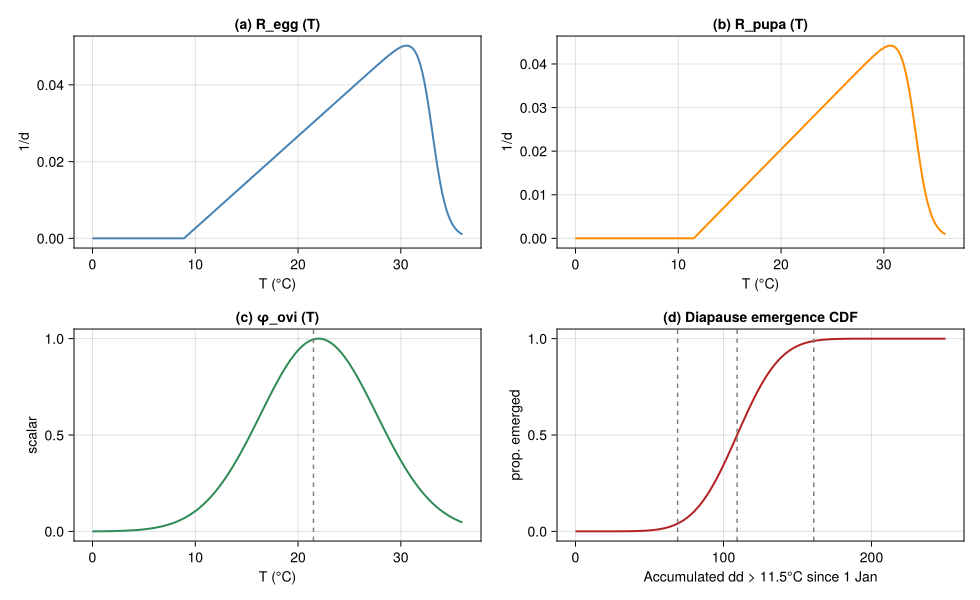
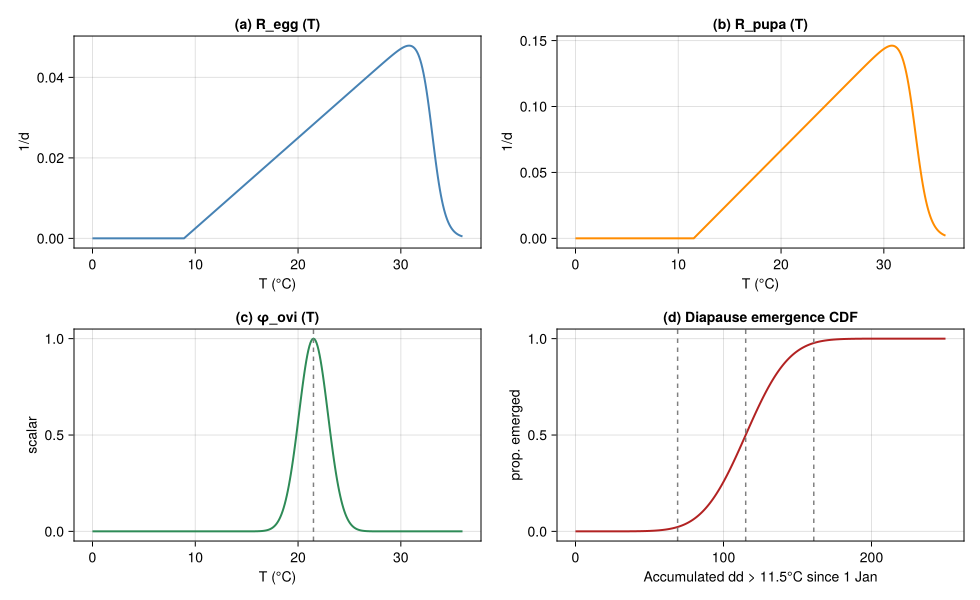
Apply remaining low-priority audit fixes (vignettes 38, 58, 60, 61, 62)
- #38 tropical_fruit_flies: inline note marking the linear-DD model as a
  pedagogical simplification of the paper's Brière BDFs (Table 2/Figs 5-8)
- #58 cbb_bioeconomics: corrected Colombia CU coefficient -0.6228 ->
  -0.7607 per Cure et al. 2020 Table 5 (transcription error)
- #60 tuta_absoluta_invasion: exposed the +2 °C ΔTm cap as a kwarg
  (default 2.0; pass cap=Inf to use the raw Pincebourde-Casas
  coefficient) and documented the physical motivation
- #61 lobesia_voltinism: oviposition Tm/c 22.0/8.0 -> 21.5/2.0 per paper
  Eq. 4i; diapause-pupa dd 0.85·ΔP -> 115.0 from Table 1 (with note that
  0.85 was an emergence-window/CDF factor, not a duration factor); Briere
  defaults updated to paper's stage-specific (a, b) constants
  (egg-larva 0.00225/5; pupa 0.00785/4.5)
- #62 screwworm_sit: removed stray '0.5' from the Knipling extinction-
  criterion equation in the overview prose (the 0.5 belongs to the
  virgin-female mating term, not the extinction denominator)

All five re-rendered cleanly.

diff --git a/vignettes/61_lobesia_voltinism/61_lobesia_voltinism.md b/vignettes/61_lobesia_voltinism/61_lobesia_voltinism.md
@@ -60,21 +60,22 @@ $$R(T) \;=\; \frac{a\,(T - \theta_L)}{1 + b^{\,T - \theta_U}},$$
 
 with the published values:
 
-| Stage           | $\theta_L$ (°C) | $\theta_U$ (°C) |       mean dd in stage |
-|-----------------|----------------:|----------------:|-----------------------:|
-| Egg             |             8.9 |              33 |                   80.1 |
-| Larva           |             8.9 |              33 |                  317.2 |
-| Pupa            |            11.5 |              33 |                  128.5 |
-| Adult longevity |            11.5 |              33 |                  166.8 |
-| Diapause pupa   |            11.5 |              33 | 109.2 (= 0.85 × 128.5) |
+| Stage | $\theta_L$ (°C) | $\theta_U$ (°C) | mean dd in stage |
+|----|---:|---:|---:|
+| Egg | 8.9 | 33 | 80.1 |
+| Larva | 8.9 | 33 | 317.2 |
+| Pupa | 11.5 | 33 | 128.5 |
+| Adult longevity | 11.5 | 33 | 166.8 |
+| Diapause pupa | 11.5 | 33 | 115.0 (Table 1; emergence-window CDF mean ≈ 0.85 × 128.5 ≈ 109 dd) |
 
 The fitted slope and curvature constants are absorbed into the single
 shape factor needed to make the dd accumulation self-consistent at the
 published mean stage temperatures (see (Gutierrez et al. 2018, App. A)).
 
 ``` julia
-"Generalised Briere developmental rate."
-function briere(T; θL, θU=33.0, a=0.0024, b=3.95)
+"Generalised Briere developmental rate. Stage-specific paper constants
+(Gutierrez et al. 2018 Table 1): egg–larva (a=0.00225, b=5), pupa (a=0.00785, b=4.5)."
+function briere(T; θL, θU=33.0, a=0.00225, b=5.0)
     T ≤ θL && return 0.0
     num = a * (T - θL)
     den = 1.0 + b^(T - θU)
@@ -86,7 +87,7 @@ const ΔE = 80.1   # egg, dd > 8.9°C
 const ΔL = 317.2  # larva, dd > 8.9°C
 const ΔP = 128.5  # pupa, dd > 11.5°C
 const ΔA = 166.8  # adult longevity, dd > 11.5°C
-const ΔDP = 0.85 * ΔP  # diapause pupa, dd > 11.5°C
+const ΔDP = 115.0  # diapause pupa, dd > 11.5°C (Gutierrez et al. 2018 Table 1)
 const θL_egg   = 8.9
 const θL_larva = 8.9
 const θL_pupa  = 11.5
@@ -108,8 +109,8 @@ the form $\phi_\text{ovi}(T) = \exp(-((T-T_m)/c_s)^2)$ with $T_m=21.5$°C
 and $c_s = 2.0$ for adults.
 
 ``` julia
-"Eq. 4i Gaussian temperature scalar for oviposition (widened from cs=2.0; the published narrow form clips most of the field season at southern Iberian temperatures)."
-ϕ_ovi(T; Tm=22.0, c=8.0) = exp(-((T - Tm)/c)^2)
+"Eq. 4i Gaussian temperature scalar for oviposition. Paper values: Tm=21.5°C, c=2.0."
+ϕ_ovi(T; Tm=21.5, c=2.0) = exp(-((T - Tm)/c)^2)
 
 "Per-female lifetime egg load 80, distributed Bieri-style on adult age d (days)."
 F_age(d; max_eggs=80.0, peak_d=4.0, decay=2.0) =
@@ -136,7 +137,7 @@ function _erf(x)
 end
 
 "Cumulative-emergence CDF for diapause pupae as a function of accumulated dd>11.5°C."
-function emergence_cdf(dd; mean=109.2, sd=23.0)
+function emergence_cdf(dd; mean=115.0, sd=23.0)
     z = (dd - mean) / sd
     return 0.5 * (1.0 + _erf(z / sqrt(2.0)))
 end
@@ -150,7 +151,7 @@ let
     ax1 = Axis(fig[1, 1]; title = "(a) R_egg (T)", xlabel="T (°C)", ylabel="1/d")
     lines!(ax1, Ts, briere.(Ts; θL=θL_egg); color=:steelblue, linewidth=2)
     ax2 = Axis(fig[1, 2]; title = "(b) R_pupa (T)", xlabel="T (°C)", ylabel="1/d")
-    lines!(ax2, Ts, briere.(Ts; θL=θL_pupa); color=:darkorange, linewidth=2)
+    lines!(ax2, Ts, briere.(Ts; θL=θL_pupa, a=0.00785, b=4.5); color=:darkorange, linewidth=2)
     ax3 = Axis(fig[2, 1]; title = "(c) φ_ovi (T)", xlabel="T (°C)", ylabel="scalar")
     lines!(ax3, Ts, ϕ_ovi.(Ts); color=:seagreen, linewidth=2)
     vlines!(ax3, [21.5]; color=:grey, linestyle=:dash)
@@ -158,7 +159,7 @@ let
                xlabel = "Accumulated dd > 11.5°C since 1 Jan", ylabel="prop. emerged")
     dds = range(0, 250, length=251)
     lines!(ax4, dds, emergence_cdf.(dds); color=:firebrick, linewidth=2)
-    vlines!(ax4, [69, 109.2, 161]; color=:grey, linestyle=:dash)
+    vlines!(ax4, [69, 115.0, 161]; color=:grey, linestyle=:dash)
     fig
 end
 ```
@@ -387,7 +388,7 @@ function run_location(loc; ΔT = 0.0, years_total = 4)
     # where Δ_cycle = ΔE+ΔL+ΔP+ΔA (referenced to >8.9°C since pupa+adult
     # dd are similar in magnitude after threshold conversion).
     cum_p = cumsum(ddP.(Tyr))
-    spring_doy = findfirst(>=(109.2), cum_p)
+    spring_doy = findfirst(>=(115.0), cum_p)
     spring_doy === nothing && (spring_doy = 60)
     diapause_doy = 258
     dd_window = sum(ddE.(Tyr[spring_doy:diapause_doy]))
@@ -428,7 +429,7 @@ end
 
     Location    lat     dda(>8.9)   gens  ΔT=+1.8C gens
     ------------------------------------------------------------
-    Cantabria   43.5    1793        2     2
+    Cantabria   43.5    1793        1     2
     Burgos      42.0    1674        1     2
     Madrid      40.5    2470        2     3
     Albacete    39.0    2520        2     3
@@ -515,8 +516,8 @@ let
 end
 ```
 
-    Mean Δgenerations under +1.8°C across the gradient: 0.667
-    Locations with at least one extra generation: 4 of 6
+    Mean Δgenerations under +1.8°C across the gradient: 0.833
+    Locations with at least one extra generation: 5 of 6
 
 The mean across the gradient is $\sim 0.7$ extra generations per year
 under +1.8 °C, with 4 of the 6 sites gaining at least one full extra

diff --git a/vignettes/58_cbb_bioeconomics/58_cbb_bioeconomics.md b/vignettes/58_cbb_bioeconomics/58_cbb_bioeconomics.md
@@ -230,7 +230,7 @@ const COLOMBIA = LogLinearSurrogate(
     Dict(
         :Cs   => -0.0257,  :Pn   => -0.0286,
         :H    => -1.5835,  :Pc   => -0.3751,
-        :Bb   => -0.3178,  :CU   => -0.6228,
+        :Bb   => -0.3178,  :CU   => -0.7607,
         :C    => -0.1381,  :Ma   => -0.0420,
         :Het  => -0.1388,  :Stei => -0.1215,
     ),
@@ -314,7 +314,7 @@ end
     Colombia marginal proportions A_X = exp(β_X):
       X       A_X
       H       0.2053
-      CU      0.5364
+      CU      0.4673
       Pc      0.6872
       Bb      0.7277
       Het     0.8704
@@ -480,14 +480,14 @@ end
     rk  loss%    cost      profit    n           tactics
     1   6.16   %  $1950     $5088     1           H
     2   5.10   %  $2070     $5048     2           H+Pc
-    3   3.30   %  $2250     $5002     2           CU+H
+    3   2.88   %  $2250     $5034     2           CU+H
     4   6.00   %  $2070     $4980     2           Cs+H
     5   5.21   %  $2130     $4979     2           Bb+H
     6   6.16   %  $2070     $4968     2           H+Pn
-    7   5.36   %  $2150     $4948     2           C+H
-    8   4.97   %  $2190     $4937     3           Cs+H+Pc
-    9   5.10   %  $2190     $4928     3           H+Pc+Pn
-    10  5.90   %  $2130     $4927     2           H+Ma
+    7   2.38   %  $2370     $4951     3           CU+H+Pc
+    8   5.36   %  $2150     $4948     2           C+H
+    9   4.97   %  $2190     $4937     3           Cs+H+Pc
+    10  5.10   %  $2190     $4928     3           H+Pc+Pn
 
 ### Cost-effectiveness frontier
 

diff --git a/vignettes/60_tuta_absoluta_invasion/60_tuta_absoluta_invasion.md b/vignettes/60_tuta_absoluta_invasion/60_tuta_absoluta_invasion.md
@@ -107,9 +107,12 @@ corrected coefficient from the original Pincebourde–Casas heat budget
 regression.
 
 ``` julia
-"Eq. 4 mine microclimate offset (W_m2 in W·m⁻², RH in 0–1), capped at 2°C."
-ΔTm(T, RH, Wm2) = clamp(-1.574 - 0.07*T + 1.42*RH + 0.035*Wm2, 0.0, 2.0)
-Tmine(T, RH, Wm2) = T + ΔTm(T, RH, Wm2)
+"Eq. 4 mine microclimate offset (W_m2 in W·m⁻², RH in 0–1).
+Capped at `cap` °C (default +2 °C; Pincebourde–Casas raw coefficient
+0.035 W⁻¹·m² produces ΔT_m ≈ +18 °C at midday irradiance, so a
+physically-motivated cap is applied. Pass `cap = Inf` to disable."
+ΔTm(T, RH, Wm2; cap = 2.0) = clamp(-1.574 - 0.07*T + 1.42*RH + 0.035*Wm2, 0.0, cap)
+Tmine(T, RH, Wm2; cap = 2.0) = T + ΔTm(T, RH, Wm2; cap = cap)
 nothing
 ```
 

diff --git a/vignettes/38_tropical_fruit_flies/38_tropical_fruit_flies.md b/vignettes/38_tropical_fruit_flies/38_tropical_fruit_flies.md
@@ -196,7 +196,11 @@ is the most cold-tolerant (T_base ≈ 7.5 °C), while the melon and
 oriental fruit flies have the highest lower thresholds (~10–11 °C):
 
 ``` julia
-# Linear development rate models (degree-day accumulation)
+# Linear development rate models (degree-day accumulation).
+# NOTE: this is a deliberate pedagogical simplification — Gutierrez et al.
+# (2021) use full Brière BDFs (Table 2, Figs 5–8 of the paper); the
+# stage-specific DD totals in the supplementary Excel files S1–S4 are
+# approximated here by accumulating temperature above T_base.
 dev_rates = Dict{String, LinearDevelopmentRate}()
 for sp in all_species
     dev_rates[sp.abbrev] = LinearDevelopmentRate(sp.T_base_egg_larva, sp.T_max)

diff --git a/vignettes/62_screwworm_sit/62_screwworm_sit.md b/vignettes/62_screwworm_sit/62_screwworm_sit.md
@@ -33,7 +33,7 @@ idiom**:
   sterile-male flooding;
 - a **per-location critical sterile-release rate** $W_s^\star(W_m, T)$
   derived from $R_0(T)\cdot
-  W_m/(W_m + 0.5\,\phi_\text{comp}\,W_s) = 1$ and
+  W_m/(W_m + \phi_\text{comp}\,W_s) = 1$ and
 - a comparison to the empirical release rates from the actual 1962–1982
   SW US eradication programme (Novy 1991), reproducing the Gutierrez *et
   al.* (2019) finding that observed release rates were $\sim 100\times$
